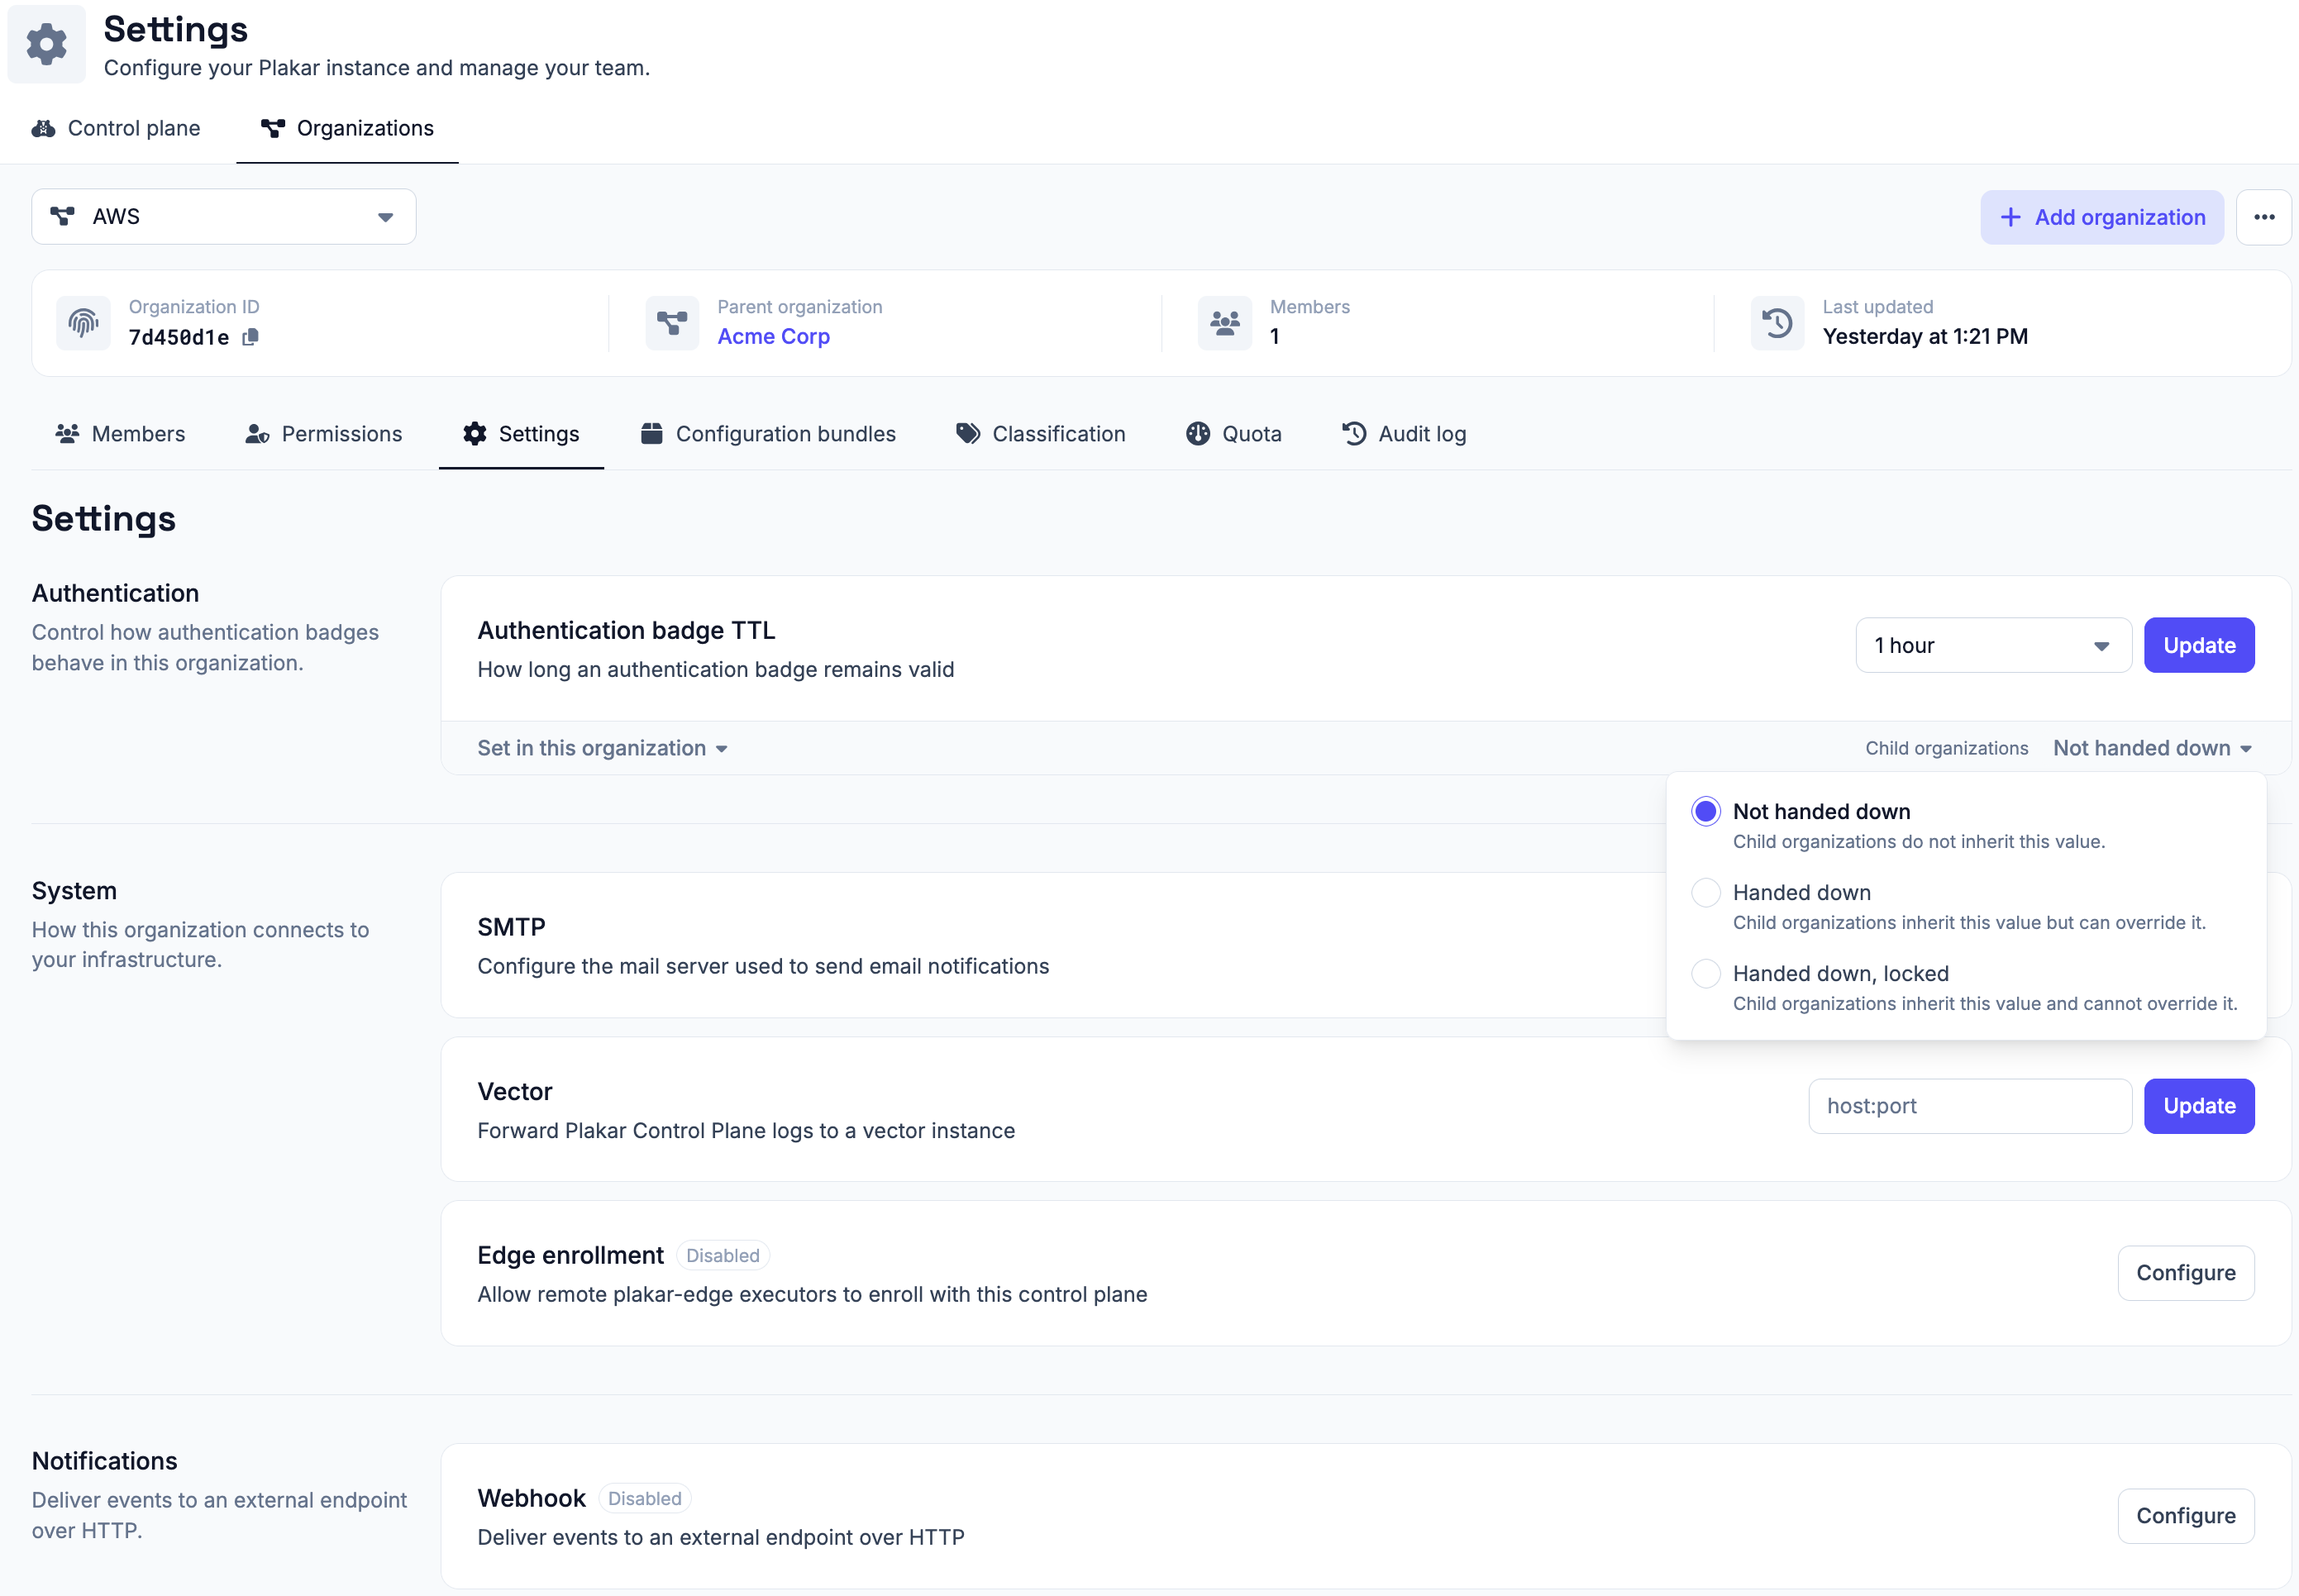
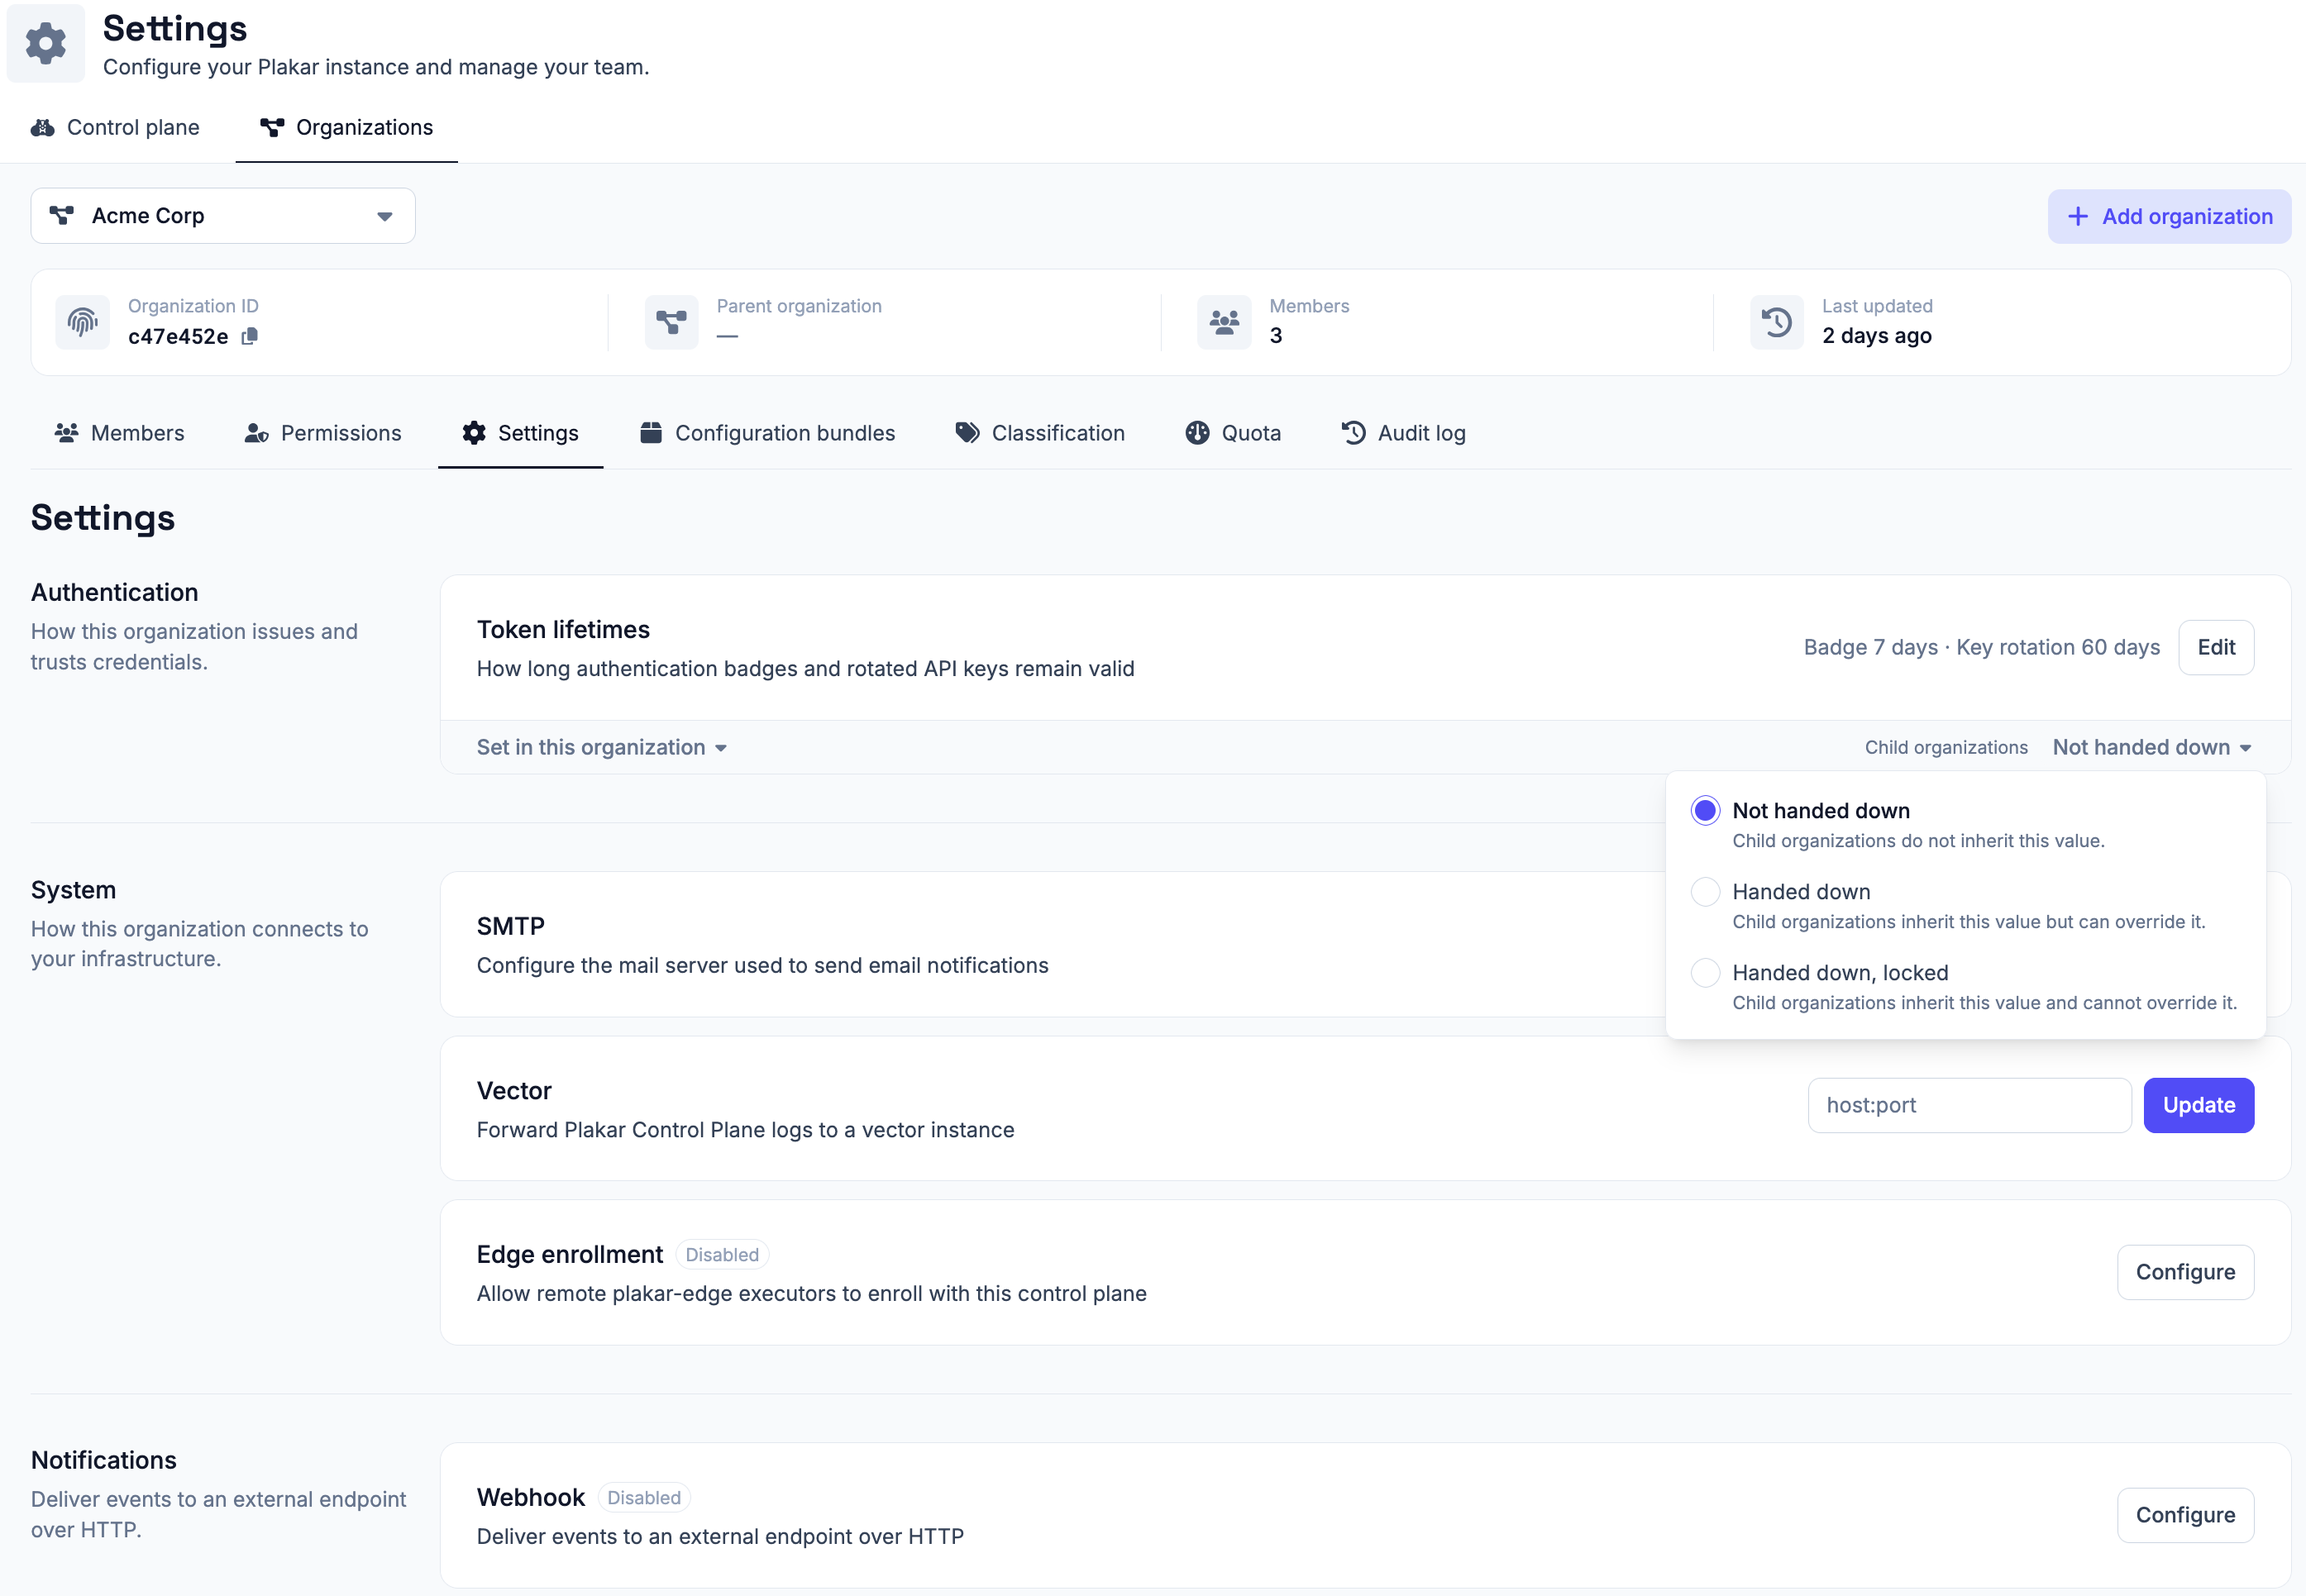
we can specify ttl for api keys

diff --git a/content/docs/control-plane/administration/settings/organization.md b/content/docs/control-plane/administration/settings/organization.md
@@ -32,13 +32,16 @@ same value in each organization and trusting it to stay.
 
 ## Authentication
 
-Controls how authentication badges behave in this organization.
+Controls how long credentials remain valid in this organization.
 
-### Authentication badge TTL
+### Token lifetimes
 
-The authentication badge indicates the current authentication status of a
-session. Configure how long the badge remains valid after authentication, then
-apply the new time-to-live (TTL).
+Two time-to-live (TTL) durations are configured together here:
+
+- **Authentication badge TTL:** how long an authentication badge remains valid.
+  The badge indicates the current authentication status of a session.
+- **API key rotation TTL:** how long an API key remains valid after its owner
+  rotates it.
 
 ## System
 
